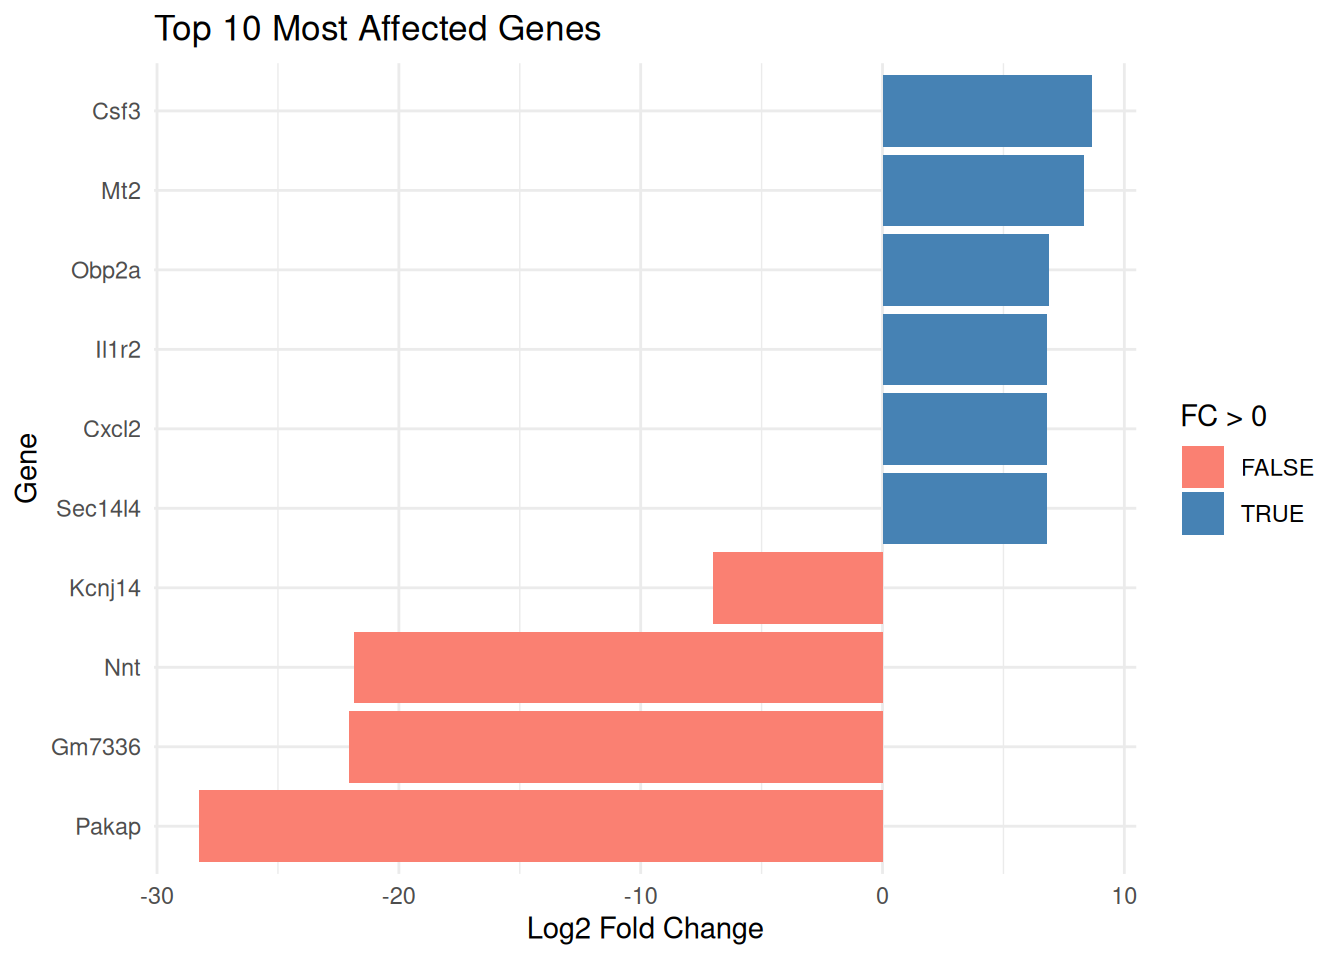
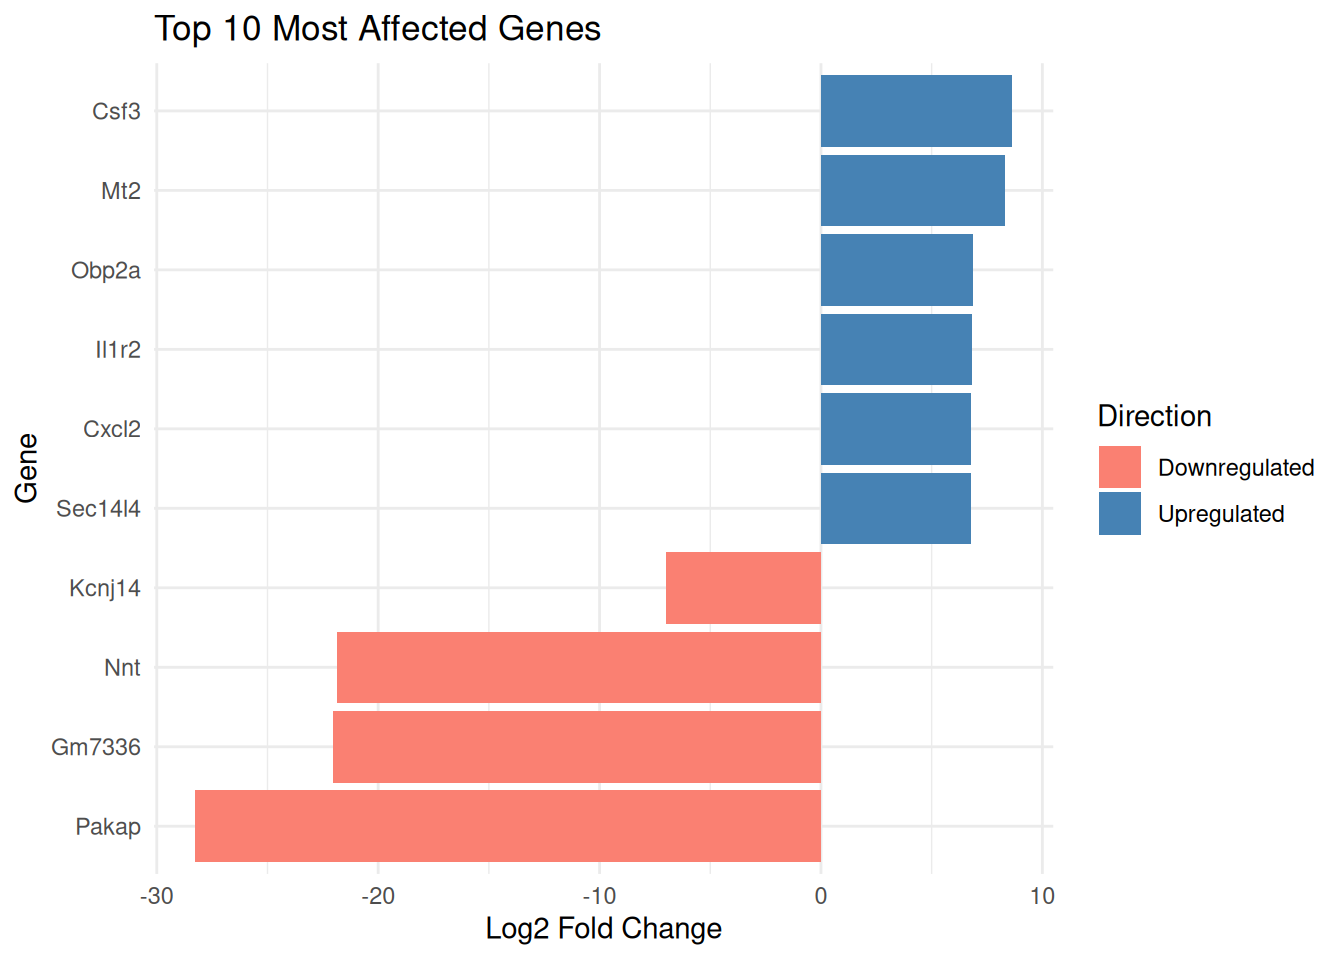
Built site for gh-pages

diff --git a/Projects/Project_title.html b/Projects/Project_title.html
@@ -177,7 +177,13 @@ pre > code.sourceCode > span > a:first-child::before { text-decoration: underlin
 </div>
 <p>Sepsis begins as a primary infection. Like any other infection, Endothelial cells are a part of your first responders that directly and indirectly respond to pathogens. To that end, endothelial cells become activated where they undergo phenotypic changes to better attack a pathogen. This includes increasing their vascular permeability. So normally EC have tight barrier functions, however, they will diminish those barrier properties in order for leukocytes to extravasate into the tissue to help fight the pathogen. ECs with also increase their inflammatory response so they will be secreting cytokines to further recruit an immune response. ECs will also switch to a more procoagulant state so they can trap the pathogen from entering circulation. However, as the pathogen persists in cases like sepsis , these phenotypic changes that were once helpful in clearing the pathogen become detrimental to the host as the EC is unable to return to quiescence and this increased in vascular permeability gives rise to the vascular leakage driving organ dysfunction in sepsis complications.</p>
 <div class="column" style="width:80%;">
-<p><img src="ActivatedvsDysfunction.png" height="300" alt="Activated vs Dysfunctional Endothelium"> In order to look at endothelial cells specifically, my lab uses I am using a Cdh5-driven inducible cre to produce a hemagglutinin tagged ribosomal protein 22. So by tissue harvest follow by immunoprecipitation of the hemaglutein tagged polyribosomes, I can capture the actively translated mRNA from endothelial cells and determine which transcripts are enriched or depleted in endothelial cells based off an enrichment score based off IP-selected mRNA over the total tissue mRNA.</p>
+<div class="quarto-figure quarto-figure-center">
+<figure class="figure">
+<p><img src="ActivatedvsDysfunction.png" height="300" class="figure-img"></p>
+<figcaption>Activated vs Dysfunctional Endothelium</figcaption>
+</figure>
+</div>
+<p>In order to look at endothelial cells specifically, my lab uses I am using a Cdh5-driven inducible cre to produce a hemagglutinin tagged ribosomal protein 22. So by tissue harvest follow by immunoprecipitation of the hemaglutein tagged polyribosomes, I can capture the actively translated mRNA from endothelial cells and determine which transcripts are enriched or depleted in endothelial cells based off an enrichment score based off IP-selected mRNA over the total tissue mRNA.</p>
 <div class="column" style="width:100%;">
 <div class="quarto-figure quarto-figure-center">
 <figure class="figure">
@@ -196,8 +202,8 @@ pre > code.sourceCode > span > a:first-child::before { text-decoration: underlin
 <span id="cb1-5"><a href="#cb1-5" aria-hidden="true" tabindex="-1"></a>df <span class="ot">&lt;-</span> <span class="fu">read.table</span>(<span class="st">"FSIvsControlBead.csv"</span>, <span class="at">sep =</span> <span class="st">','</span>)</span></code><button title="Copy to Clipboard" class="code-copy-button"><i class="bi"></i></button></pre></div>
 </div>
 </section>
-<section id="step-2-set-appropriate-thresholds-for-the-data-i-am-interested-in" class="level1">
-<h1>Step 2: Set appropriate thresholds for the data I am interested in</h1>
+<section id="step-2-set-appropriate-thresholds" class="level1">
+<h1>Step 2: Set appropriate thresholds</h1>
 <div class="cell">
 <div class="sourceCode cell-code" id="cb2"><pre class="sourceCode r code-with-copy"><code class="sourceCode r"><span id="cb2-1"><a href="#cb2-1" aria-hidden="true" tabindex="-1"></a>fc_threshold <span class="ot">&lt;-</span> <span class="dv">1</span></span>
 <span id="cb2-2"><a href="#cb2-2" aria-hidden="true" tabindex="-1"></a>padj_threshold <span class="ot">&lt;-</span> <span class="fl">0.05</span></span></code><button title="Copy to Clipboard" class="code-copy-button"><i class="bi"></i></button></pre></div>
@@ -304,7 +310,16 @@ pre > code.sourceCode > span > a:first-child::before { text-decoration: underlin
 9           4.79000e-23 3.400000e-20
 10          9.14820e-04 1.807352e-02</code></pre>
 </div>
-<div class="sourceCode cell-code" id="cb12"><pre class="sourceCode r code-with-copy"><code class="sourceCode r"><span id="cb12-1"><a href="#cb12-1" aria-hidden="true" tabindex="-1"></a><span class="fu">ggplot</span>(top_genes, <span class="fu">aes</span>(<span class="at">x =</span> <span class="fu">reorder</span>(symbol, FC), <span class="at">y =</span> FC, <span class="at">fill =</span> FC <span class="sc">&gt;</span> <span class="dv">0</span>)) <span class="sc">+</span> <span class="fu">geom_col</span>() <span class="sc">+</span> <span class="fu">coord_flip</span>() <span class="sc">+</span> <span class="fu">labs</span>(<span class="at">title =</span> <span class="st">"Top 10 Most Affected Genes"</span>, <span class="at">x =</span> <span class="st">"Gene"</span>, <span class="at">y =</span> <span class="st">"Log2 Fold Change"</span>) <span class="sc">+</span> <span class="fu">scale_fill_manual</span>(<span class="at">values =</span> <span class="fu">c</span>(<span class="st">"TRUE"</span> <span class="ot">=</span> <span class="st">"steelblue"</span>, <span class="st">"FALSE"</span> <span class="ot">=</span> <span class="st">"salmon"</span>)) <span class="sc">+</span> <span class="fu">theme_minimal</span>()</span></code><button title="Copy to Clipboard" class="code-copy-button"><i class="bi"></i></button></pre></div>
+<div class="sourceCode cell-code" id="cb12"><pre class="sourceCode r code-with-copy"><code class="sourceCode r"><span id="cb12-1"><a href="#cb12-1" aria-hidden="true" tabindex="-1"></a><span class="fu">ggplot</span>(top_genes, <span class="fu">aes</span>(<span class="at">x =</span> <span class="fu">reorder</span>(symbol, FC), <span class="at">y =</span> FC, <span class="at">fill =</span> FC <span class="sc">&gt;</span> <span class="dv">0</span>)) <span class="sc">+</span> </span>
+<span id="cb12-2"><a href="#cb12-2" aria-hidden="true" tabindex="-1"></a>  <span class="fu">geom_col</span>() <span class="sc">+</span> </span>
+<span id="cb12-3"><a href="#cb12-3" aria-hidden="true" tabindex="-1"></a>  <span class="fu">coord_flip</span>() <span class="sc">+</span> </span>
+<span id="cb12-4"><a href="#cb12-4" aria-hidden="true" tabindex="-1"></a>  <span class="fu">labs</span>(<span class="at">title =</span> <span class="st">"Top 10 Most Affected Genes"</span>, </span>
+<span id="cb12-5"><a href="#cb12-5" aria-hidden="true" tabindex="-1"></a>       <span class="at">x =</span> <span class="st">"Gene"</span>, </span>
+<span id="cb12-6"><a href="#cb12-6" aria-hidden="true" tabindex="-1"></a>       <span class="at">y =</span> <span class="st">"Log2 Fold Change"</span>) <span class="sc">+</span> </span>
+<span id="cb12-7"><a href="#cb12-7" aria-hidden="true" tabindex="-1"></a>  <span class="fu">scale_fill_manual</span>(<span class="at">name =</span> <span class="st">"Direction"</span>, </span>
+<span id="cb12-8"><a href="#cb12-8" aria-hidden="true" tabindex="-1"></a>                    <span class="at">values =</span> <span class="fu">c</span>(<span class="st">"TRUE"</span> <span class="ot">=</span> <span class="st">"steelblue"</span>, <span class="st">"FALSE"</span> <span class="ot">=</span> <span class="st">"salmon"</span>), </span>
+<span id="cb12-9"><a href="#cb12-9" aria-hidden="true" tabindex="-1"></a>                    <span class="at">labels =</span> <span class="fu">c</span>(<span class="st">"FALSE"</span> <span class="ot">=</span> <span class="st">"Downregulated"</span>, <span class="st">"TRUE"</span> <span class="ot">=</span> <span class="st">"Upregulated"</span>)) <span class="sc">+</span> </span>
+<span id="cb12-10"><a href="#cb12-10" aria-hidden="true" tabindex="-1"></a>  <span class="fu">theme_minimal</span>()</span></code><button title="Copy to Clipboard" class="code-copy-button"><i class="bi"></i></button></pre></div>
 <div class="cell-output-display">
 <div>
 <figure class="figure">

diff --git a/projects/Project_title.html b/projects/Project_title.html
@@ -179,7 +179,13 @@ pre > code.sourceCode > span > a:first-child::before { text-decoration: underlin
 </div>
 <p>Sepsis begins as a primary infection. Like any other infection, Endothelial cells are a part of your first responders that directly and indirectly respond to pathogens. To that end, endothelial cells become activated where they undergo phenotypic changes to better attack a pathogen. This includes increasing their vascular permeability. So normally EC have tight barrier functions, however, they will diminish those barrier properties in order for leukocytes to extravasate into the tissue to help fight the pathogen. ECs with also increase their inflammatory response so they will be secreting cytokines to further recruit an immune response. ECs will also switch to a more procoagulant state so they can trap the pathogen from entering circulation. However, as the pathogen persists in cases like sepsis , these phenotypic changes that were once helpful in clearing the pathogen become detrimental to the host as the EC is unable to return to quiescence and this increased in vascular permeability gives rise to the vascular leakage driving organ dysfunction in sepsis complications.</p>
 <div class="column" style="width:80%;">
-<p><img src="ActivatedvsDysfunction.png" height="300" alt="Activated vs Dysfunctional Endothelium"> In order to look at endothelial cells specifically, my lab uses I am using a Cdh5-driven inducible cre to produce a hemagglutinin tagged ribosomal protein 22. So by tissue harvest follow by immunoprecipitation of the hemaglutein tagged polyribosomes, I can capture the actively translated mRNA from endothelial cells and determine which transcripts are enriched or depleted in endothelial cells based off an enrichment score based off IP-selected mRNA over the total tissue mRNA.</p>
+<div class="quarto-figure quarto-figure-center">
+<figure class="figure">
+<p><img src="ActivatedvsDysfunction.png" height="300" class="figure-img"></p>
+<figcaption>Activated vs Dysfunctional Endothelium</figcaption>
+</figure>
+</div>
+<p>In order to look at endothelial cells specifically, my lab uses I am using a Cdh5-driven inducible cre to produce a hemagglutinin tagged ribosomal protein 22. So by tissue harvest follow by immunoprecipitation of the hemaglutein tagged polyribosomes, I can capture the actively translated mRNA from endothelial cells and determine which transcripts are enriched or depleted in endothelial cells based off an enrichment score based off IP-selected mRNA over the total tissue mRNA.</p>
 <div class="column" style="width:100%;">
 <div class="quarto-figure quarto-figure-center">
 <figure class="figure">
@@ -198,8 +204,8 @@ pre > code.sourceCode > span > a:first-child::before { text-decoration: underlin
 <span id="cb1-5"><a href="#cb1-5" aria-hidden="true" tabindex="-1"></a>df <span class="ot">&lt;-</span> <span class="fu">read.table</span>(<span class="st">"FSIvsControlBead.csv"</span>, <span class="at">sep =</span> <span class="st">','</span>)</span></code><button title="Copy to Clipboard" class="code-copy-button"><i class="bi"></i></button></pre></div>
 </div>
 </section>
-<section id="step-2-set-appropriate-thresholds-for-the-data-i-am-interested-in" class="level1">
-<h1>Step 2: Set appropriate thresholds for the data I am interested in</h1>
+<section id="step-2-set-appropriate-thresholds" class="level1">
+<h1>Step 2: Set appropriate thresholds</h1>
 <div class="cell">
 <div class="sourceCode cell-code" id="cb2"><pre class="sourceCode r code-with-copy"><code class="sourceCode r"><span id="cb2-1"><a href="#cb2-1" aria-hidden="true" tabindex="-1"></a>fc_threshold <span class="ot">&lt;-</span> <span class="dv">1</span></span>
 <span id="cb2-2"><a href="#cb2-2" aria-hidden="true" tabindex="-1"></a>padj_threshold <span class="ot">&lt;-</span> <span class="fl">0.05</span></span></code><button title="Copy to Clipboard" class="code-copy-button"><i class="bi"></i></button></pre></div>
@@ -306,7 +312,16 @@ pre > code.sourceCode > span > a:first-child::before { text-decoration: underlin
 9           4.79000e-23 3.400000e-20
 10          9.14820e-04 1.807352e-02</code></pre>
 </div>
-<div class="sourceCode cell-code" id="cb12"><pre class="sourceCode r code-with-copy"><code class="sourceCode r"><span id="cb12-1"><a href="#cb12-1" aria-hidden="true" tabindex="-1"></a><span class="fu">ggplot</span>(top_genes, <span class="fu">aes</span>(<span class="at">x =</span> <span class="fu">reorder</span>(symbol, FC), <span class="at">y =</span> FC, <span class="at">fill =</span> FC <span class="sc">&gt;</span> <span class="dv">0</span>)) <span class="sc">+</span> <span class="fu">geom_col</span>() <span class="sc">+</span> <span class="fu">coord_flip</span>() <span class="sc">+</span> <span class="fu">labs</span>(<span class="at">title =</span> <span class="st">"Top 10 Most Affected Genes"</span>, <span class="at">x =</span> <span class="st">"Gene"</span>, <span class="at">y =</span> <span class="st">"Log2 Fold Change"</span>) <span class="sc">+</span> <span class="fu">scale_fill_manual</span>(<span class="at">values =</span> <span class="fu">c</span>(<span class="st">"TRUE"</span> <span class="ot">=</span> <span class="st">"steelblue"</span>, <span class="st">"FALSE"</span> <span class="ot">=</span> <span class="st">"salmon"</span>)) <span class="sc">+</span> <span class="fu">theme_minimal</span>()</span></code><button title="Copy to Clipboard" class="code-copy-button"><i class="bi"></i></button></pre></div>
+<div class="sourceCode cell-code" id="cb12"><pre class="sourceCode r code-with-copy"><code class="sourceCode r"><span id="cb12-1"><a href="#cb12-1" aria-hidden="true" tabindex="-1"></a><span class="fu">ggplot</span>(top_genes, <span class="fu">aes</span>(<span class="at">x =</span> <span class="fu">reorder</span>(symbol, FC), <span class="at">y =</span> FC, <span class="at">fill =</span> FC <span class="sc">&gt;</span> <span class="dv">0</span>)) <span class="sc">+</span> </span>
+<span id="cb12-2"><a href="#cb12-2" aria-hidden="true" tabindex="-1"></a>  <span class="fu">geom_col</span>() <span class="sc">+</span> </span>
+<span id="cb12-3"><a href="#cb12-3" aria-hidden="true" tabindex="-1"></a>  <span class="fu">coord_flip</span>() <span class="sc">+</span> </span>
+<span id="cb12-4"><a href="#cb12-4" aria-hidden="true" tabindex="-1"></a>  <span class="fu">labs</span>(<span class="at">title =</span> <span class="st">"Top 10 Most Affected Genes"</span>, </span>
+<span id="cb12-5"><a href="#cb12-5" aria-hidden="true" tabindex="-1"></a>       <span class="at">x =</span> <span class="st">"Gene"</span>, </span>
+<span id="cb12-6"><a href="#cb12-6" aria-hidden="true" tabindex="-1"></a>       <span class="at">y =</span> <span class="st">"Log2 Fold Change"</span>) <span class="sc">+</span> </span>
+<span id="cb12-7"><a href="#cb12-7" aria-hidden="true" tabindex="-1"></a>  <span class="fu">scale_fill_manual</span>(<span class="at">name =</span> <span class="st">"Direction"</span>, </span>
+<span id="cb12-8"><a href="#cb12-8" aria-hidden="true" tabindex="-1"></a>                    <span class="at">values =</span> <span class="fu">c</span>(<span class="st">"TRUE"</span> <span class="ot">=</span> <span class="st">"steelblue"</span>, <span class="st">"FALSE"</span> <span class="ot">=</span> <span class="st">"salmon"</span>), </span>
+<span id="cb12-9"><a href="#cb12-9" aria-hidden="true" tabindex="-1"></a>                    <span class="at">labels =</span> <span class="fu">c</span>(<span class="st">"FALSE"</span> <span class="ot">=</span> <span class="st">"Downregulated"</span>, <span class="st">"TRUE"</span> <span class="ot">=</span> <span class="st">"Upregulated"</span>)) <span class="sc">+</span> </span>
+<span id="cb12-10"><a href="#cb12-10" aria-hidden="true" tabindex="-1"></a>  <span class="fu">theme_minimal</span>()</span></code><button title="Copy to Clipboard" class="code-copy-button"><i class="bi"></i></button></pre></div>
 <div class="cell-output-display">
 <div>
 <figure class="figure">

diff --git a/projects.html b/projects.html
@@ -217,7 +217,7 @@ Author
 </thead>
 <tbody class="list">
 
-<tr data-index="0" data-listing-file-modified-sort="1753210335499" data-listing-reading-time-sort="3" data-listing-word-count-sort="552" data-listing-title-sort="Which Endothelial genes are enriched under murine sepsis treatment?" data-listing-filename-sort="Project_title.qmd">
+<tr data-index="0" data-listing-file-modified-sort="1753211536942" data-listing-reading-time-sort="4" data-listing-word-count-sort="619" data-listing-title-sort="Which Endothelial genes are enriched under murine sepsis treatment?" data-listing-filename-sort="Project_title.qmd">
 <td>
 <a href="./projects/Project_title.html" class="title listing-title">Which Endothelial genes are enriched under murine sepsis treatment?</a>
 </td>
